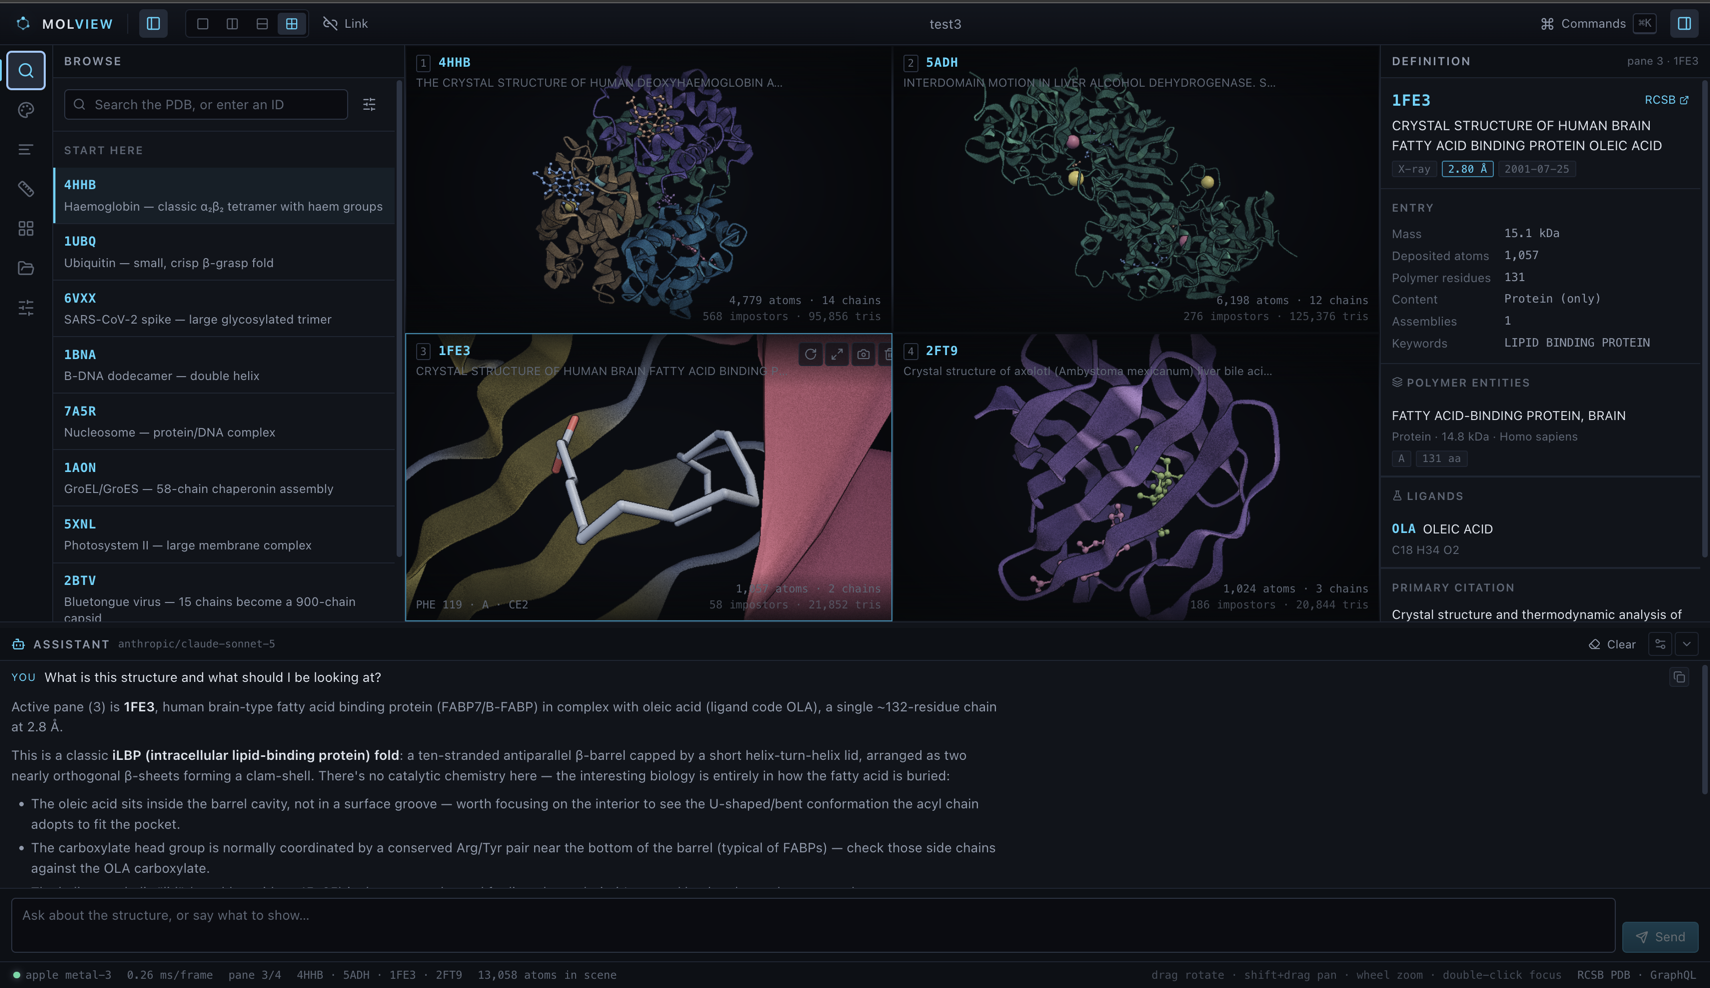
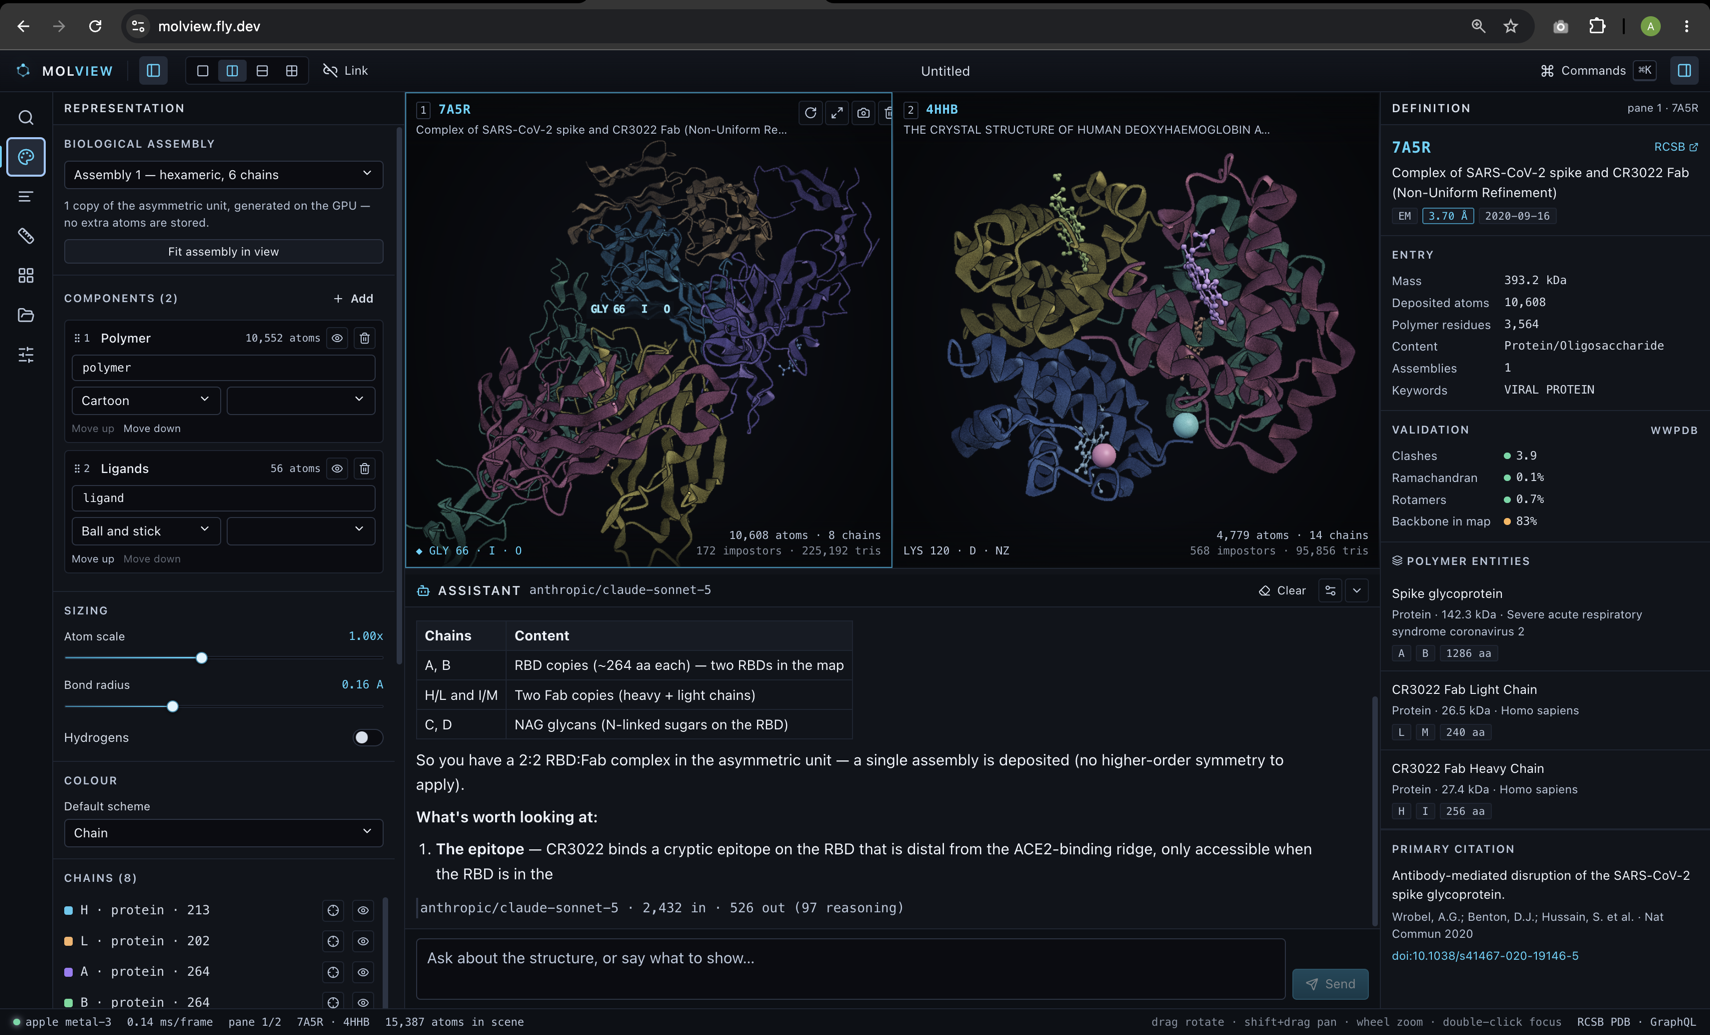
Point the README at the live site, with a screenshot of it
The hero was a local four-pane session from before validation, the nucleotide
work and the layout change. The new one is the deployed app: two panes, the
wwPDB validation block in the definition panel, and the assistant answering in a
Markdown table with the turn's token cost under it.

The link goes first, since a viewer you can click is a better argument than any
paragraph about one.

Four statements had gone stale and are corrected: the assistant sits beneath the
canvas rather than above the status bar, colour-by-nucleotide-base exists, "Save
as new" exists, and the deploy notes still described yul and 512 MB where
fly.toml now says yyz and 256.

Changed region(s): [[0.0, 0.0, 1.0, 1.0], [0.9918, 0.668, 1.0, 0.8198], [0.6199, 0.8198, 0.7439, 0.8502]]

diff --git a/README.md b/README.md
@@ -1,25 +1,29 @@
 # MolView
 
-![Four structures side by side in MolView, with the assistant describing the active pane](docs/hero.png)
+**[molview.fly.dev](https://molview.fly.dev)**
 
-<sub>Four panes — 4HHB, 5ADH, 1FE3 and 2FT9 — 13,058 atoms at 0.26 ms/frame,
-with the assistant reading the active pane and the oleic acid buried in 1FE3's
-β-barrel.</sub>
+![MolView showing a SARS-CoV-2 spike/Fab complex beside haemoglobin, with the wwPDB validation summary and the assistant answering in a Markdown table](docs/hero.png)
+
+<sub>7A5R beside 4HHB — 15,387 atoms at 0.14 ms/frame. The definition panel
+carries the wwPDB validation summary (83% of this 3.7 Å cryo-EM model's backbone
+lies in the map), and the assistant answers in Markdown, reporting what the turn
+cost in tokens.</sub>
 
 A WebGPU molecular viewer for the RCSB Protein Data Bank. Browse and search the
 PDB, and display up to four structures side by side — including macromolecular
 assemblies of millions of atoms.
 
-Everything runs in the browser. There is no server component: the app talks
-directly to RCSB's public endpoints and does all decoding, geometry generation
-and rendering on the client.
+Everything runs in the browser. There is no server component: the deployment is
+static files, and the app talks directly to RCSB's public endpoints, doing all
+decoding, geometry generation and rendering on the client. Nothing you load or
+save leaves your machine except the requests to RCSB itself.
+
+Requires a WebGPU-capable browser (Chrome/Edge 113+, Safari 18+).
 
 ```bash
 npm install
 npm run dev
 ```
-
-Requires a WebGPU-capable browser (Chrome/Edge 113+, Safari 18+).
 
 `npm run build` produces a static `dist/`, which is all a deployment is — see
 [Deploying](#deploying) below.
@@ -64,8 +68,8 @@ component covering an atom wins. "Cartoon everywhere, spheres on chain A, sticks
 at the haem" is three rows, not a special case. Styles are cartoon ribbons with
 real secondary-structure cross-sections and β-strand arrowheads, backbone trace,
 ball-and-stick, licorice and spacefill. Colour by chain, element, secondary
-structure, residue type, B-factor/pLDDT, hydrophobicity, entity, or an N→C
-rainbow — per component or inherited from the pane.
+structure, residue type, B-factor/pLDDT, hydrophobicity, entity, nucleotide
+base, or an N→C rainbow — per component or inherited from the pane.
 
 Nucleic acid bases come in four styles. **Slab** fits a flat box in the base's
 own ring plane, so a double helix reads as one rather than as two bare tubes.
@@ -77,11 +81,13 @@ a rod, which is what stays readable on a ribosome. **None** leaves the bare
 backbone. Anything unpaired keeps a stub under Ladder, so a single strand never
 silently disappears. Colouring by nucleotide base puts purines warm and
 pyrimidines cool, so a strand reads as its purine/pyrimidine pattern and the two
-halves of a pair always contrast. Assembly copies can be
-tinted by symmetry operator, which is what makes an icosahedral capsid's facets
-and 5-fold vertices visible instead of undifferentiated mush. Shading comes as
-named presets — Studio, Soft, Flat, Plain — with the ambient-occlusion, outline
-and fog sliders still there underneath.
+halves of a pair always contrast.
+
+Assembly copies can be tinted by symmetry operator, which is what makes an
+icosahedral capsid's facets and 5-fold vertices visible instead of
+undifferentiated mush. Shading comes as named presets — Studio, Soft, Flat,
+Plain — with the ambient-occlusion, outline and fog sliders still there
+underneath.
 
 **NMR ensembles.** Every model at once as backbone traces, which is the usual
 way to read the spread, or one at a time with the camera held still as you step
@@ -131,12 +137,13 @@ works both cold and pasted into a tab already running the app.
 renamed by clicking it; **New project** clears every pane back to defaults.
 Save a session in the browser and reopen it later, or export it as
 `.molview.json` to move between machines. Saving an already-saved project
-updates it in place rather than making a copy. Saving never downloads a file;
+updates it in place; **Save as new** branches it instead, so a session built on
+an existing project does not overwrite its parent. Saving never downloads a file;
 export is the only operation that touches the file system. Coordinates are not
 stored — entries are referenced by PDB id and refetched, so a two-pane project
 is about 2 KB.
 
-**Assistant.** A panel above the status bar talks to any model on
+**Assistant.** A panel beneath the canvas talks to any model on
 [OpenRouter](https://openrouter.ai). It answers as a structural biologist would
 — Markdown with GitHub tables and LaTeX equations — and it can drive the viewer:
 loading entries, building representations from selections, measuring, colouring,

diff --git a/DEPLOY.md b/DEPLOY.md
@@ -1,5 +1,7 @@
 # Deploying to fly.io
 
+Deployed at **[molview.fly.dev](https://molview.fly.dev)**.
+
 MolView has no server component. The Docker image is a Vite build served by
 nginx, so a deployment is static files behind Fly's TLS terminator — no secrets,
 no environment variables, no volumes, no database.
@@ -22,7 +24,7 @@ fly launch --no-deploy
 
 Answer no when it offers to overwrite `fly.toml`. It will rename the app if
 `molview` is taken, and it may change `primary_region` — the config here
-defaults to `yul` (Montreal).
+defaults to `yyz` (Toronto).
 
 Then:
 
@@ -44,7 +46,7 @@ the app simply does not start over plain http. `force_https = true` in
 request after an idle period pays a wake-up of roughly a second. Set
 `min_machines_running = 1` if that matters.
 
-**512 MB, one shared CPU.** nginx serving static files needs a fraction of
+**256 MB, one shared CPU.** nginx serving static files needs a fraction of
 this. The memory that matters is the *client's* — a 2.9M-atom capsid is decoded
 and rendered in the visitor's browser, not here.
 
